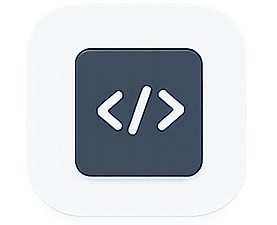
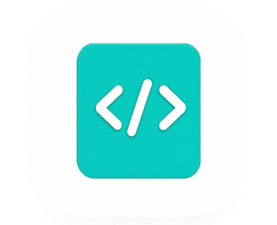
style(hub): unify work areas to single brand color #00C3AE
Drop per-area accent colors in AREA_THEMES (all point to one brand
theme) and recolor the "Áreas de trabajo" LayoutGrid header icon and the
"Áreas" menu action from blue to #00C3AE.

diff --git a/src/pages/AreasTrabajoHubPage.jsx b/src/pages/AreasTrabajoHubPage.jsx
@@ -92,7 +92,7 @@ const DASHED_ARC_RADIUS = 51; // dashed arc just before (inward of) the grey arc
  * the work areas (Encarta-style lateral categories + dynamic central panel).
  */
 const MENU_ACTIONS = [
-  { key: "areas", title: "Áreas", icon: <LayoutGrid />, angle: 225, accent: "#2563EB", soft: "rgba(37,99,235,0.12)" },
+  { key: "areas", title: "Áreas", icon: <LayoutGrid />, angle: 225, accent: "#00C3AE", soft: "rgba(0,195,174,0.12)" },
   { key: "pins", title: "Mis Pin", icon: <Pin />, angle: 315, accent: ACCENT, soft: accentAlpha(0.12) },
   { key: "reportes", title: "Reportes", icon: <BarChart3 />, angle: 135, accent: "#7C3AED", soft: "rgba(124,58,237,0.12)" },
   { key: "configuracion", title: "Configuración", icon: <Cog />, angle: 45, accent: "#EA580C", soft: "rgba(234,88,12,0.12)" },
@@ -1605,7 +1605,7 @@ export default function AreasTrabajoHubPage() {
             <section style={styles.areasSection} onClick={(e) => e.stopPropagation()}>
               <div style={styles.areasPanelHead}>
                 <div style={styles.areasPanelHeadTitle}>
-                  <span style={{ ...styles.areasPanelHeadIcon, background: `rgba(37,99,235,0.12)`, color: "#2563EB" }}>
+                  <span style={{ ...styles.areasPanelHeadIcon, background: `rgba(0,195,174,0.12)`, color: "#00C3AE" }}>
                     <LayoutGrid size={18} strokeWidth={2.2} />
                   </span>
                   <div>

diff --git a/src/config/workAreas.jsx b/src/config/workAreas.jsx
@@ -31,17 +31,20 @@ import { canAccessWorkItem } from "./permissions";
  * Keeping the data here guarantees the hub and the sidebar never drift apart.
  */
 
+// Color de marca único para todas las áreas (sin color propio por área).
+const BRAND_THEME = { accent: "#00C3AE", soft: "rgba(0, 195, 174, 0.12)" };
+
 export const AREA_THEMES = {
-  despacho: { accent: "#16A34A", soft: "rgba(22, 163, 74, 0.12)" },
-  seguridad: { accent: "#2563EB", soft: "rgba(37, 99, 235, 0.12)" },
-  "salud-ocupacional": { accent: "#0D9488", soft: "rgba(13, 148, 136, 0.12)" },
-  recepcion: { accent: "#65A30D", soft: "rgba(101, 163, 13, 0.12)" },
-  mantenimiento: { accent: "#7C3AED", soft: "rgba(124, 58, 237, 0.12)" },
-  "servicios-generales": { accent: "#EA580C", soft: "rgba(234, 88, 12, 0.12)" },
-  epa: { accent: "#6D28D9", soft: "rgba(109, 40, 217, 0.12)" },
-  administracion: { accent: "#0891B2", soft: "rgba(8, 145, 178, 0.12)" },
-  dev: { accent: "#475569", soft: "rgba(71, 85, 105, 0.12)" },
-  "mrp-tarimas": { accent: "#B45309", soft: "rgba(180, 83, 9, 0.12)" },
+  despacho: BRAND_THEME,
+  seguridad: BRAND_THEME,
+  "salud-ocupacional": BRAND_THEME,
+  recepcion: BRAND_THEME,
+  mantenimiento: BRAND_THEME,
+  "servicios-generales": BRAND_THEME,
+  epa: BRAND_THEME,
+  administracion: BRAND_THEME,
+  dev: BRAND_THEME,
+  "mrp-tarimas": BRAND_THEME,
 };
 
 /**
